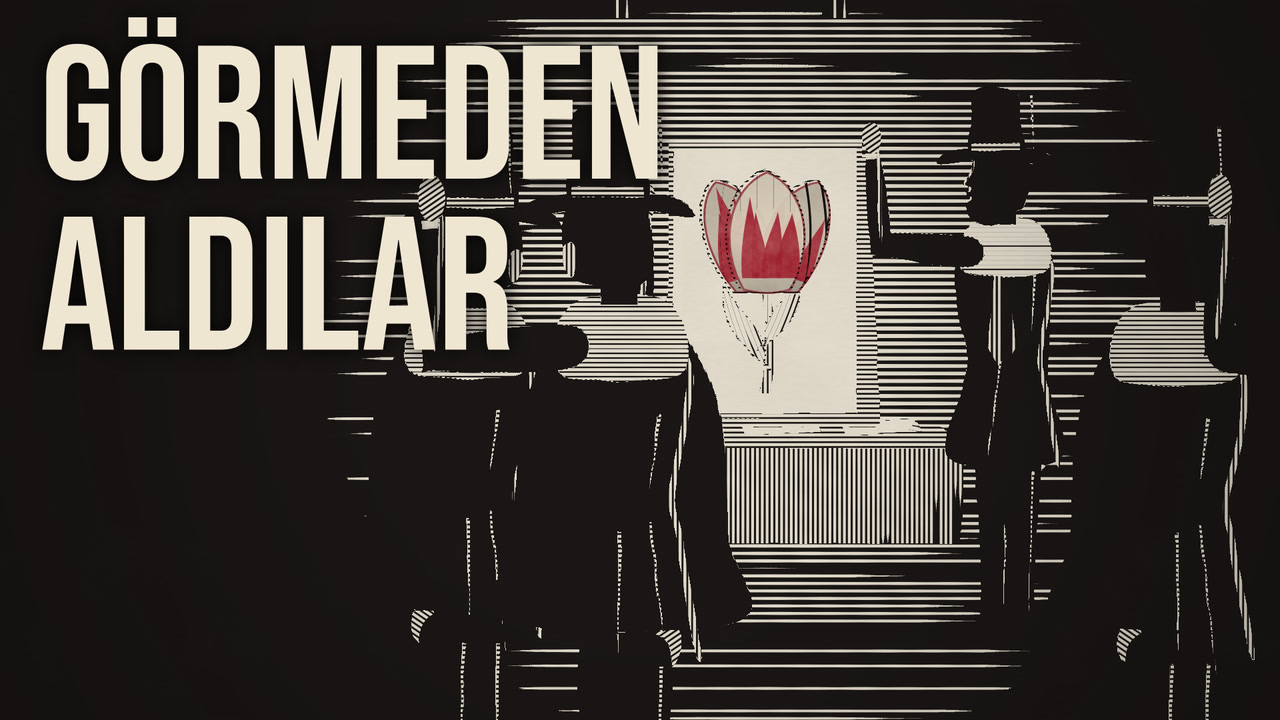
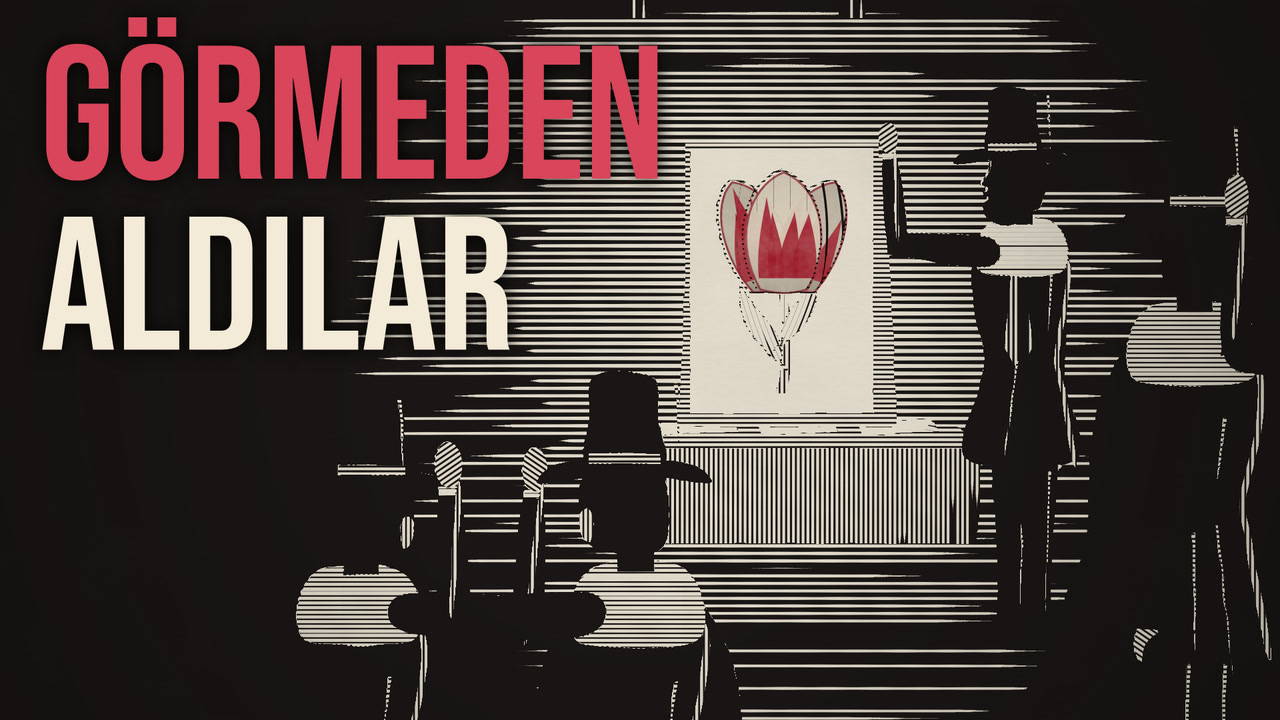
Lale Çılgınlığı: kapaklar kapak sistemine uyduruldu
- A "BİR EV FİYATINA": yazı üstten başlıyor, lacivert #101B33, tek vurgu
  EV lale kırmızısı #AC1228; terazi 60 px sağa (FİYATINA ev kefesine
  biniyordu, şimdi ≥ 30 px).
- B "GÖRMEDEN ALDILAR": GÖRMEDEN lale kırmızısının açık tonu #D8455A
  (koyu ton koyu zeminde 120×68'de okunmuyordu), ALDILAR fildişi #F3EAD7;
  öndeki iki alıcı aşağı alındı (kalkık elleri ALDILAR'ın arkasındaydı),
  sahne 25 px sağa (GÖRMEDEN ile sayfa arasında ≥ 30 px).
- kapak.js: kelime başına renk, o.yazisiz (test seti için yazısız sürüm).
- Yazısız kareler ve test sayfaları (kapak/test, .gitignore'a rağmen -f)
  kapak/ altında; yayin.md kapak satırları.

Claude-Session: https://claude.ai/code/session_01DiDBPCNVdTbcKEowzqSXTP

diff --git a/lale-cilginligi/lib/kapak.js b/lale-cilginligi/lib/kapak.js
@@ -1,13 +1,17 @@
 // Kapaklar (1920×1080 çizilir, 1280×720 kaydedilir). kapak.html?render=1 → window.kapak('A'|'B', o)
 // A "karşıtlık": terazi; kefede renkli lale (tek renk) ve soğan ağır basar, öbür kefede ev havada. Yazı: BİR EV FİYATINA (iki satır).
 // B "hareket oku": karanlık meyhane; dirsekten kırık, yukarı uzanan eller kâğıda boyanmış tek renkli laleye. Yazı: GÖRMEDEN ALDILAR (23 Kasım; eski HERKES ALIYORDU başlığı tekrar ediyordu).
+// Kapak sistemi (27 Kasım, kanal/KAPAK_SISTEMI.md): yazı solda ve üstte; A lacivert + kırmızı EV, B fildişi + kırmızı GÖRMEDEN. o.yazisiz: aynı sahne yazısız (test_seti.py yazıyı farktan ölçer).
 // Kurallar: renk yalnız lalede; harf yüksekliği ≥ %18 (Bebas büyük harf ≈ 0,70 em → font ≥ 280 px); sağ alt süre rozeti (x 1440–1874, y 829–1034) boş.
 'use strict';
 (function () {
   function yazi(ctx, satirlar, x, y, px, o = {}) {
     ctx.save(); ctx.setTransform(1, 0, 0, 1, 0, 0); ctx.textAlign = o.align || 'left'; ctx.textBaseline = 'alphabetic';
     ctx.font = `400 ${px}px "Bebas Neue"`; if (o.ls) ctx.letterSpacing = o.ls + 'px'; const lh = px * (o.lh || .9);
-    satirlar.forEach((s, i) => { ctx.shadowColor = o.golge || 'rgba(0,0,0,.6)'; ctx.shadowBlur = px * .1; ctx.fillStyle = (o.renk && o.renk[i]) || o.col || '#1a1715'; ctx.fillText(s, x, y + i * lh); });
+    // satır: düz metin ya da parçalar [[metin, renk], …] (kapak sistemi: tek vurgu kelimesi kendi renginde)
+    satirlar.forEach((s, i) => { ctx.shadowColor = o.golge || 'rgba(0,0,0,.6)'; ctx.shadowBlur = px * .1;
+      const parca = Array.isArray(s) ? s : [[s, null]]; let cx = x;
+      for (const [t, r] of parca) { ctx.fillStyle = r || (o.renk && o.renk[i]) || o.col || '#1a1715'; ctx.fillText(t, cx, y + i * lh); cx += ctx.measureText(t).width; } });
     ctx.restore();
   }
   const cam0 = { cx: 960, cy: 540, z: 1 };
@@ -29,18 +33,20 @@
     LALE.sifirla(); YAZI.sifirla();
     levha(ctx, cam, () => {
       GR.fill(SET.R(-400, -400, 2800, 1900), GR.tone(.84), { th: 0, id: 10 });   // zemin bir kademe koyu (Fable: kapak akışta soluk)
-      asiliTerazi.ip = o.ip ?? 380; const [K1, K2] = asiliTerazi(o.hx ?? 1320, o.hy ?? 260, o.L ?? 340, o.a ?? .3); asiliTerazi.ip = 300;
-      // sol kefe yukarıda: ev; sağ kefe aşağıda: soğan + çiçek
+      asiliTerazi.ip = o.ip ?? 380; const [K1, K2] = asiliTerazi(o.hx ?? 1380, o.hy ?? 260, o.L ?? 340, o.a ?? .3); asiliTerazi.ip = 300;
+      // sol kefe yukarıda: ev; sağ kefe aşağıda: soğan + çiçek. Terazi 60 px sağda (kapak sistemi: yazı üste çıkınca FİYATINA ev kefesine biniyordu; ≥ 30 px)
       SET.ev(K1[0] - 120, K1[1], 240, 180, { ton: .3, basamak: 3, kat: 1 });
       LALE.sogan(K2[0], K2[1] - 50, 1.8); LALE.ciz(K2[0], K2[1] - 186, 2.6, { sap: 56, cesit: 'semper', ac: .35 });   // lale ve soğan ~%25 büyük: tek odak
       SET.isik({ x: K2[0], y: K2[1] - 300, r1: 460, a: .75 });
     }, [.84, 0, 10]);
     YAZI.bas(ctx, cam); LALE.boya(ctx, cam, 1, { kay: 2.5, alevK: 2.3, alevN: 1 }); LALE.boya(ctx, cam, .4, { kay: 2.5, alevK: 2.3, alevN: 1 });   // kapakta alevler kalın, ikinci kat boya: küçük boyda kırmızı görünsün
     post(ctx, 0);
-    yazi(ctx, ['BİR EV', 'FİYATINA'], 70, o.ty ?? 450, o.px ?? 300, { col: '#1a1715', golge: 'rgba(0,0,0,0)', lh: 1.0 });   // satır arası açık: İ noktaları üst üste binmesin
+    // kapak sistemi (27 Kasım): yazı üstten başlar, açık zeminde lacivert, tek vurgu kelimesi lale kırmızısı (EV: kırmızı ev ↔ kırmızı lale)
+    const VA = o.vurgu || '#AC1228';
+    if (!o.yazisiz) yazi(ctx, [[['BİR ', null], ['EV', VA]], 'FİYATINA'], o.tx ?? 70, o.ty ?? 300, o.px ?? 300, { col: '#101B33', golge: 'rgba(0,0,0,0)', lh: 1.0 });   // satır arası açık: İ noktaları üst üste binmesin
   }
   function B(o = {}) {
-    const cam = { cx: o.cx ?? 1060, cy: o.cy ?? 560, z: o.z ?? 1.25 };
+    const cam = { cx: o.cx ?? 1040, cy: o.cy ?? 560, z: o.z ?? 1.25 };   // kapak sistemi: sahne 25 px sağa (GÖRMEDEN ile sayfa kenarı arasında ≥ 30 px)
     LALE.sifirla(); YAZI.sifirla();
     levha(ctx, cam, () => {
       GR.fill(SET.R(-400, -400, 2800, 1900), GR.tone(.06), { th: 0, id: 0 });
@@ -53,12 +59,15 @@
       LALE.ciz(1210, 470, 1.55, { sap: 130, cesit: 'semper', ac: .3 });
       SET.isik({ x: 1210, y: 500, r1: 560, a: 1 });
       INSAN.adam({ x: 1500, y: 900, h: 560, yon: -1, sapka: 'genis', yaka: 'duz', kenar: .6, kenarYan: -1, kolOn: { a: 1.7, b: 1.35 }, biyik: true, sakal: true });
-      const A = [[850, 1180, 760, 1, 1.6, 1.5], [1040, 1230, 820, -1, 1.55, 1.55], [1700, 1220, 800, 1, 1.6, 1.45], [1960, 1180, 760, -1, 1.65, 1.5]];   // el kaldırma: üst kol öne, ön kol dik (düz çapraz kalkık kol selam okunabiliyordu)
+      // kapak sistemi (27 Kasım): öndeki iki alıcı aşağıda (y +320) ve biri sola açıldı: kalkık elleri ALDILAR'ın altında kalsın, yazıya ≥ 30 px
+      const A = o.arka || [[700, 1500, 760, 1, 1.6, 1.5], [1040, 1550, 820, -1, 1.55, 1.55], [1700, 1220, 800, 1, 1.6, 1.45], [1960, 1180, 760, -1, 1.65, 1.5]];   // el kaldırma: üst kol öne, ön kol dik (düz çapraz kalkık kol selam okunabiliyordu)
       A.forEach(([x, y, h, yon, a, b]) => INSAN.adam({ x, y, h, yon, arka: true, sapka: 'genis', yaka: 'duz', kenar: .5, kenarYan: yon, giysi: 'pelerin', kolOn: { a, b } }));
     }, [.06, 0, 0]);
     YAZI.bas(ctx, cam); LALE.boya(ctx, cam, 1, { kay: 2.5, alevK: 2.3, alevN: 1 });
     post(ctx, 0);
-    yazi(ctx, o.satir || ['GÖRMEDEN', 'ALDILAR'], 60, o.ty ?? 268, o.px ?? 285, { col: '#efe6d2', golge: 'rgba(0,0,0,.9)' });   // kapak merak açar, başlık tamamlar: kapak yazısı başlığın sözcüklerini tekrar etmez
+    // kapak sistemi (27 Kasım): fildişi, tek vurgu kelimesi lale kırmızısının açık tonu (koyu zeminde küçük boyda okunsun)
+    const VB = o.vurgu || '#D8455A';
+    if (!o.yazisiz) yazi(ctx, o.satir || [[['GÖRMEDEN', VB]], 'ALDILAR'], o.tx ?? 60, o.ty ?? 268, o.px ?? 285, { col: '#F3EAD7', golge: 'rgba(0,0,0,.9)' });   // kapak merak açar, başlık tamamlar: kapak yazısı başlığın sözcüklerini tekrar etmez
   }
   window.kapak = (v, o = {}) => { baseT(ctx); ctx.fillStyle = '#000'; ctx.fillRect(0, 0, W, H); (v === 'A' ? A : B)(o); return cv; };
 })();
